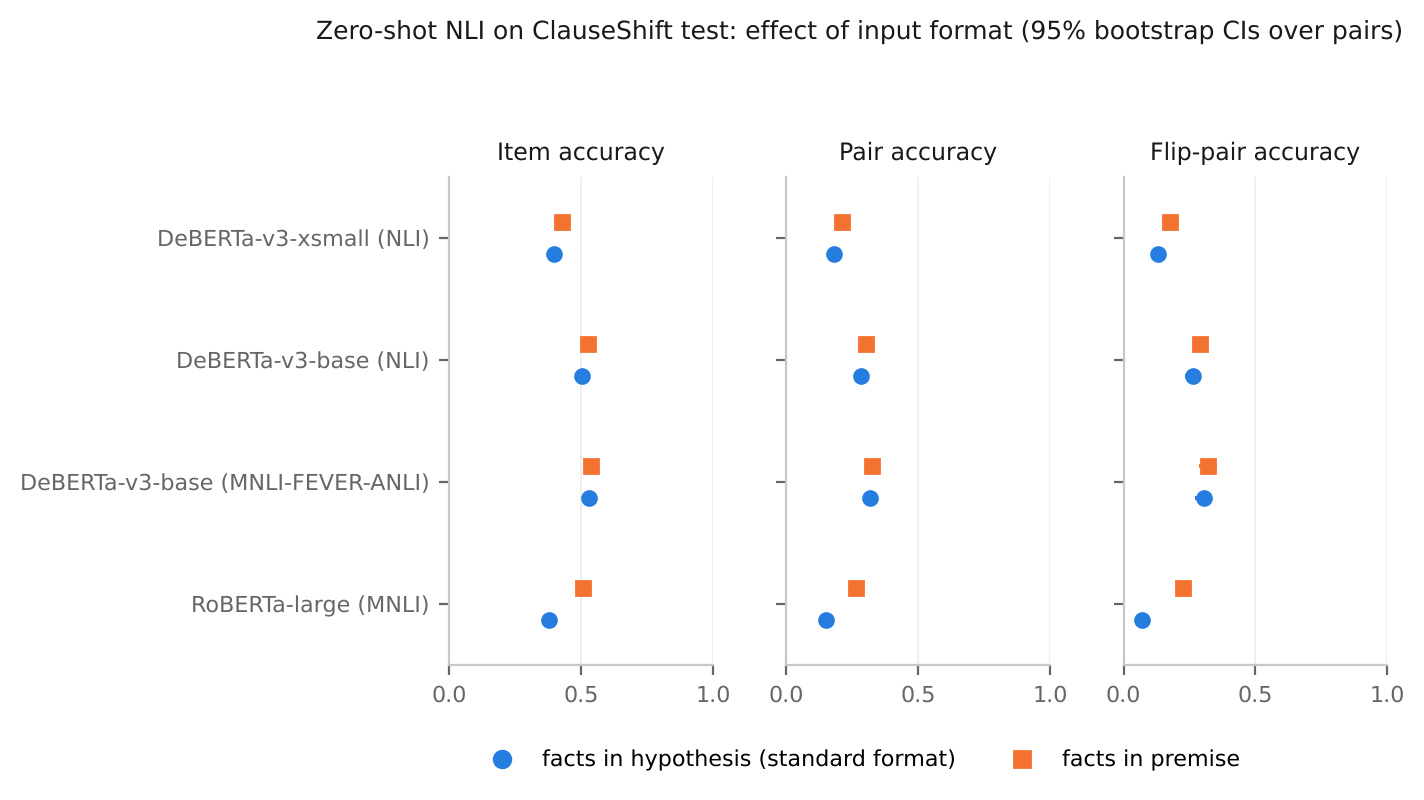
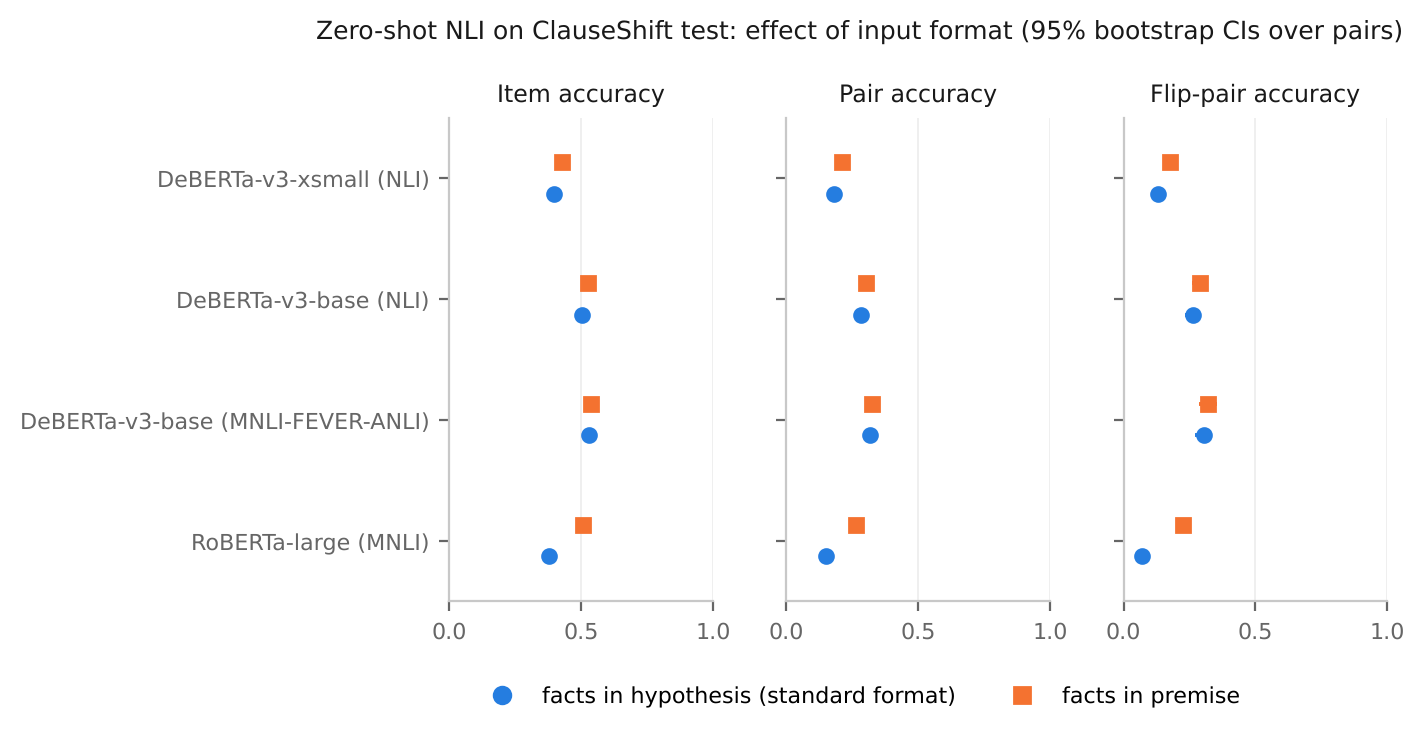
Final analysis run: figure 1 layout; all checks pass
pytest (31 tests), analyze.py, error_analysis.py, analyze_extended.py and verify_integrity.py all pass; data
files are byte-identical to main.

Claude-Session: https://claude.ai/code/session_01GGpeb3aQtBq4JH6BHTfvnv

diff --git a/scripts/analyze_extended.py b/scripts/analyze_extended.py
@@ -579,9 +579,9 @@ if fmt_res:
     h = [plt.Line2D([], [], color=BLUE, marker="o", lw=0, label="facts in hypothesis (standard format)"),
          plt.Line2D([], [], color=ORANGE, marker="s", lw=0, label="facts in premise")]
     fig.legend(handles=h, loc="upper center", ncol=2, frameon=False, bbox_to_anchor=(0.6, 0.0))
+    fig.tight_layout(rect=(0, 0, 1, 0.92))
     fig.suptitle("Zero-shot NLI on ClauseShift test: effect of input format (95% bootstrap CIs over pairs)",
-                 fontsize=9, color=INK, x=0.6, y=1.0 + 0.25 / (0.55 * len(ms) + 1.1))
-    fig.tight_layout()
+                 fontsize=9, color=INK, x=0.6, y=0.98)
     fig.savefig(FIG / "fig1_format_comparison.png")
     plt.close(fig)
 
